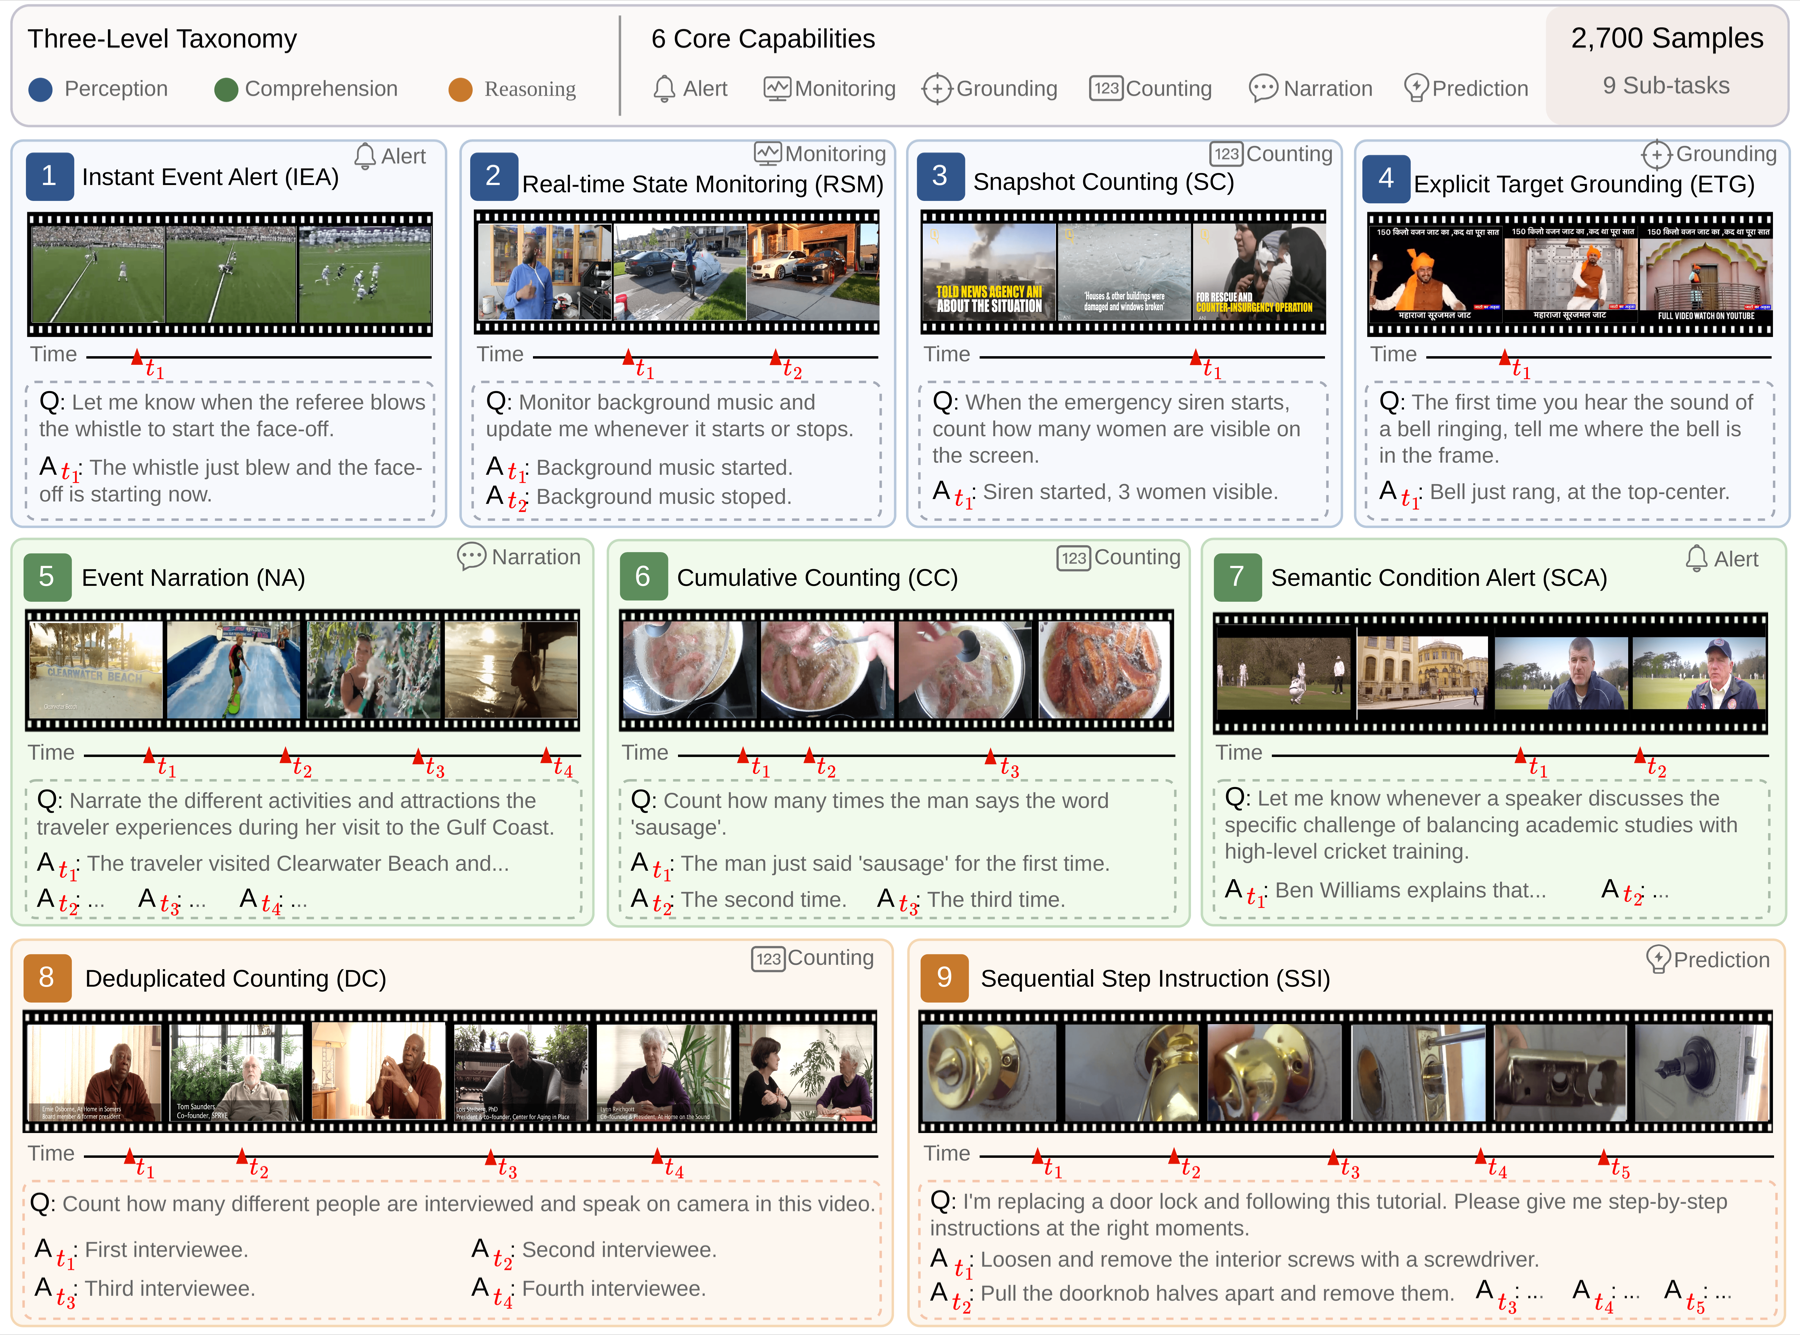
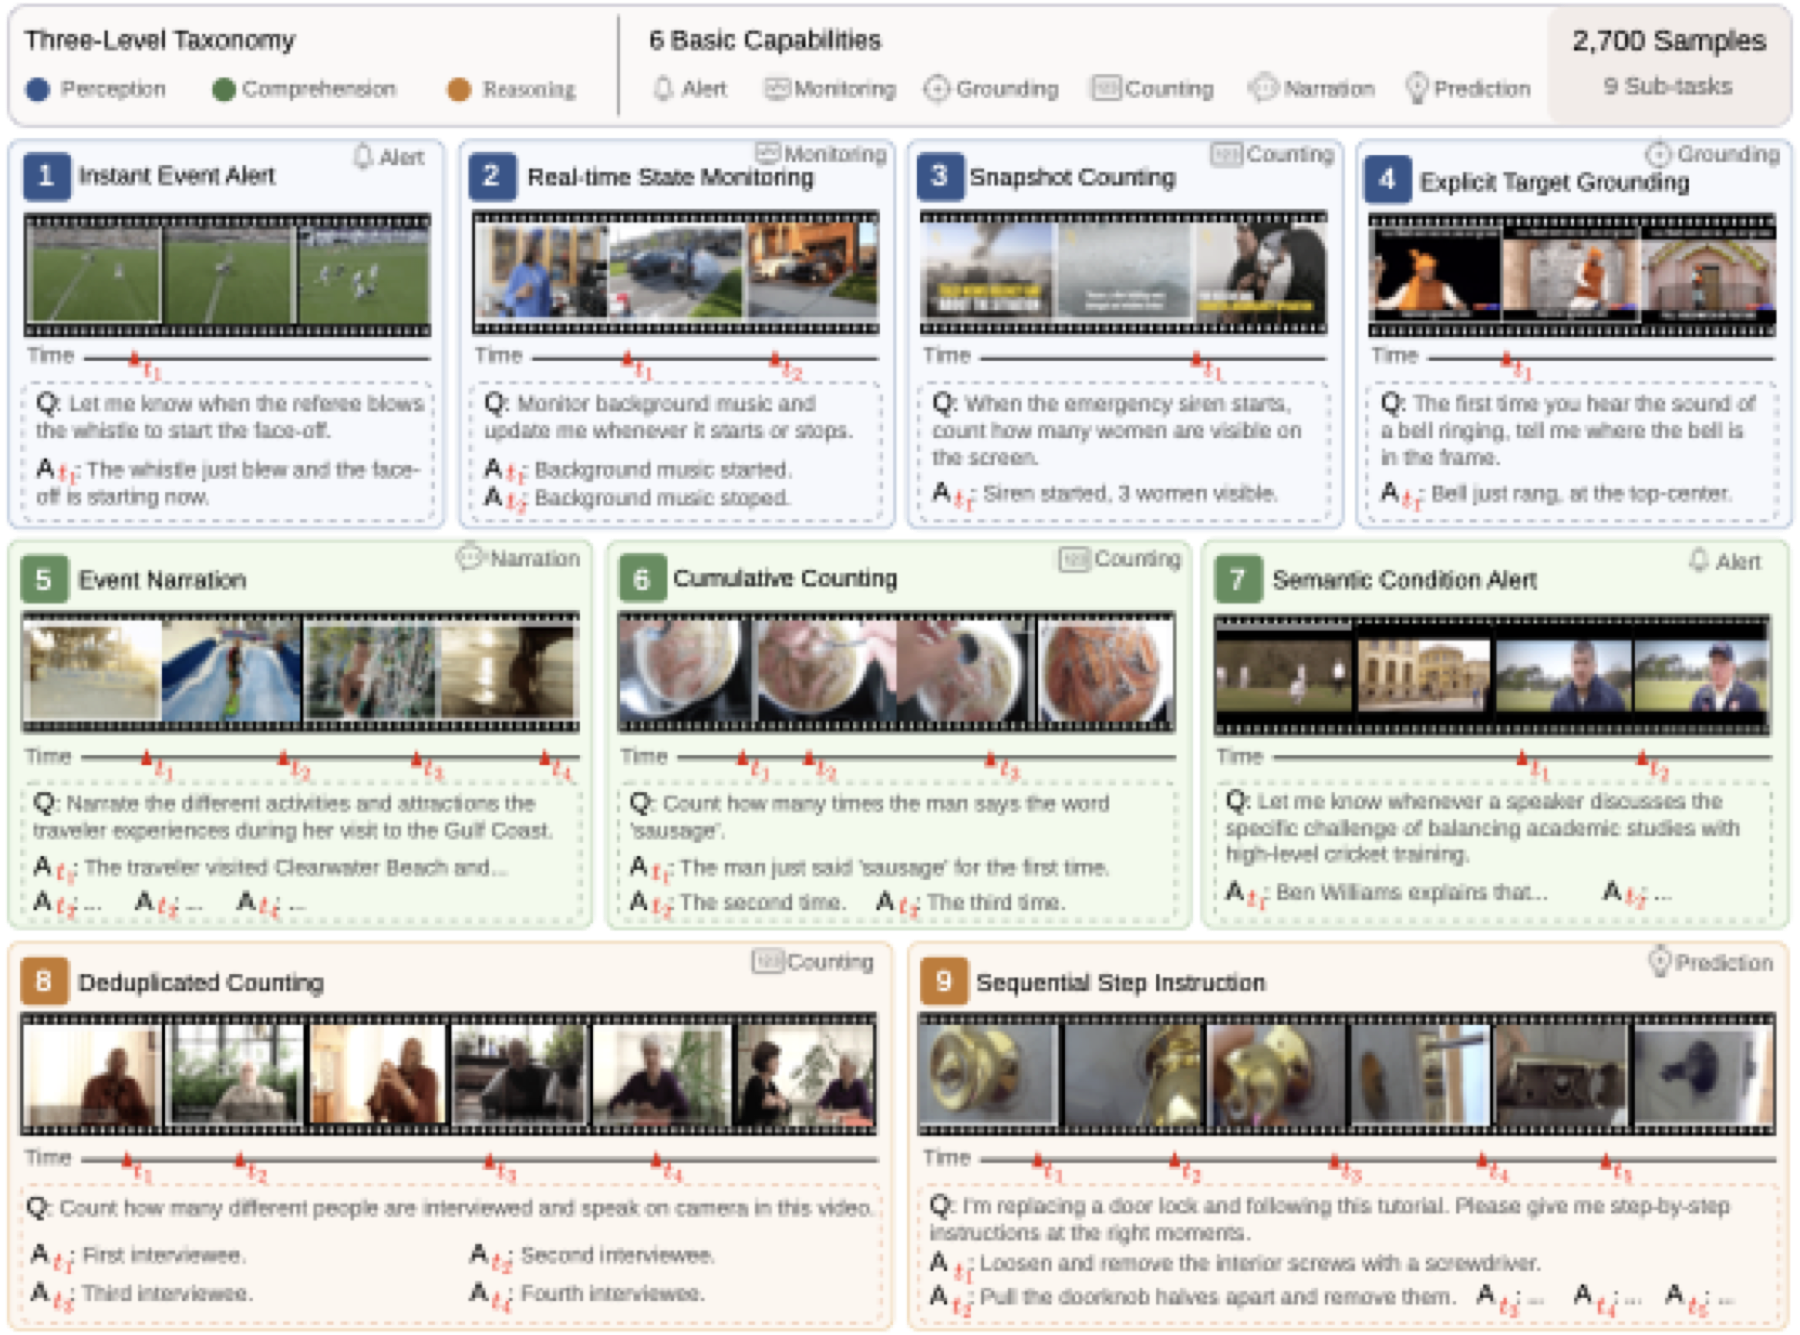
Update project page: rename to OmniPro, sync with paper
- Rename OmniProact-Bench → OmniPro throughout
- Update abstract to match current paper
- Update links: Code, Dataset, Subset
- Update carousel video URLs to new HF repo
- Update sub-task tags to new abbreviations
- Replace benchmark.png with latest version
- Rename "Autonomous Timing" → "Proactive Responding" in Key Features
- Update BibTeX entry

Changed region(s): [[0.0, 0.0, 1.0, 1.0]]

diff --git a/index.html b/index.html
@@ -2,9 +2,9 @@
 <html>
 <head>
   <meta charset="utf-8">
-  <meta name="description" content="OmniProact-Bench: A Comprehensive Benchmark for Omni Proactive Streaming Video Understanding">
+  <meta name="description" content="OmniPro: A Comprehensive Benchmark for Omni-Proactive Streaming Video Understanding">
   <meta name="viewport" content="width=device-width, initial-scale=1">
-  <title>OmniProact-Bench</title>
+  <title>OmniPro</title>
 
   <link href="https://fonts.googleapis.com/css?family=Google+Sans|Noto+Sans|Castoro" rel="stylesheet">
   <link rel="stylesheet" href="./static/css/bulma.min.css">
@@ -20,7 +20,7 @@
     <div class="container is-max-desktop">
       <div class="columns is-centered">
         <div class="column has-text-centered">
-          <h1 class="title is-1 publication-title">OmniProact-Bench</h1>
+          <h1 class="title is-1 publication-title">OmniPro</h1>
           <h2 class="subtitle is-4" style="margin-top:-0.5rem;">A Comprehensive Benchmark for Omni-Proactive Streaming Video Understanding</h2>
 
           <div class="is-size-5 publication-authors">
@@ -39,19 +39,19 @@
               </span>
               -->
               <span class="link-block">
-                <a href="https://anonymous.4open.science/r/OmniProact-Bench-1D5E" class="external-link button is-normal is-rounded is-dark">
+                <a href="https://anonymous.4open.science/r/OmniPro-5031" class="external-link button is-normal is-rounded is-dark">
                   <span class="icon"><i class="fa-brands fa-github"></i></span>
                   <span>Code</span>
                 </a>
               </span>
               <span class="link-block">
-                <a href="https://huggingface.co/datasets/omniproact-bench/omniproact-bench" class="external-link button is-normal is-rounded is-dark">
+                <a href="https://huggingface.co/datasets/omniproact-bench/OmniPro" class="external-link button is-normal is-rounded is-dark">
                   <span class="icon">🤗</span>
                   <span>Dataset</span>
                 </a>
               </span>
               <span class="link-block">
-                <a href="https://huggingface.co/datasets/omniproact-bench/omniproact-bench_subset" class="external-link button is-normal is-rounded is-dark">
+                <a href="https://huggingface.co/datasets/omniproact-bench/OmniPro_subset" class="external-link button is-normal is-rounded is-dark">
                   <span class="icon">🤗</span>
                   <span>Dataset Subset</span>
                 </a>
@@ -68,9 +68,9 @@
 <section class="hero teaser">
   <div class="container is-max-desktop">
     <div class="hero-body" style="padding-top:0;">
-      <img src="./static/images/benchmark.png" alt="OmniProact-Bench Overview" width="100%" style="border-radius:8px; box-shadow:0 4px 16px rgba(0,0,0,0.1);">
+      <img src="./static/images/benchmark.png" alt="OmniPro Overview" width="100%" style="border-radius:8px; box-shadow:0 4px 16px rgba(0,0,0,0.1);">
       <p class="has-text-centered" style="margin-top:0.8rem; font-size:0.95rem; color:#666;">
-        <b>Figure 1.</b> OmniProact-Bench: 9 sub-tasks × 3 cognitive levels × 6 capabilities, with 84% audio dependency.
+        <b>Figure 1.</b> OmniPro: 9 sub-tasks × 3 cognitive levels × 6 capabilities, with 84% audio dependency.
       </p>
     </div>
   </div>
@@ -83,9 +83,10 @@
       <div class="column is-four-fifths">
         <h2 class="title is-3 has-text-centered">Abstract</h2>
         <div class="content has-text-justified">
-          <p><b>Omni-proactive streaming video understanding</b> requires a model to autonomously decide when to speak and actively produce responses based on visual or auditory signals while processing a continuous video stream, rather than relying solely on visual triggers. Despite the rapid proliferation of streaming models, how to systematically evaluate them remains an open question: existing proactive benchmarks depend almost exclusively on visual triggers; they adopt polling or fixed-timestamp paradigms that leave genuine autonomous timing untested; and their task diversity is narrow.</p>
-          <p>We present <b>OmniProact-Bench</b>, the first comprehensive benchmark for this task. It comprises <b>2,700 human-reviewed samples</b> spanning 9 sub-tasks and 3 cognitive levels (6 capabilities), with <b>84% audio dependency</b>. We propose a dual-mode protocol: <em>GT Probe</em> (pre/post paired probing) and <em>Online</em> (frame-by-frame autonomous decision-making with multi-trigger support and over-trigger penalties).</p>
-          <p>Evaluation of 11 mainstream models reveals that omni models differ markedly in audio utilization; performance degrades substantially over time; and non-speech sound perception remains a shared bottleneck.</p>
+          <p><b>Omni-proactive streaming video understanding</b>, i.e., autonomously deciding when to speak and what to say from continuous audio-visual streams, is an emerging capability of omni-modal large language models. Existing benchmarks fall short in three key aspects: they rely primarily on visual signals, adopt polling or fixed-timestamp protocols instead of true proactive evaluation, and cover only a limited range of tasks, preventing reliable assessment and differentiation of omni-proactive streaming models.</p>
+          <p>We present <b>OmniPro</b>, the first benchmark to jointly evaluate omni-modal perception, proactive responding, and diverse video understanding tasks. It comprises <b>2,700 human-verified samples</b> spanning 9 sub-tasks and 3 cognitive levels, covering 6 basic video understanding capabilities. Notably, <b>84% of samples require audio signals</b> (speech or non-speech), and each sample is annotated with modality-isolation labels to enable fine-grained multimodal analysis.</p>
+          <p>We further introduce a dual-mode evaluation protocol: <em>Probe</em> mode assesses content understanding by querying the model before and after each ground-truth trigger, while <em>Online</em> mode evaluates full proactive ability by requiring models to autonomously decide when to respond in streaming input.</p>
+          <p>Evaluating 11 representative models reveals three key findings: (1) audio provides consistent gains but with highly variable utilization across models, (2) performance degrades significantly over time, indicating limited long-horizon robustness, and (3) non-speech audio perception remains the weakest dimension.</p>
         </div>
       </div>
     </div>
@@ -107,7 +108,7 @@
       <div class="column is-4">
         <div class="box has-text-centered" style="height:100%;">
           <span class="icon is-large" style="color:#E86330;"><i class="fas fa-clock fa-2x"></i></span>
-          <h3 class="title is-5" style="margin-top:0.75rem;">Autonomous Timing</h3>
+          <h3 class="title is-5" style="margin-top:0.75rem;">Proactive Responding</h3>
           <p>Models decide <em>when</em> to speak with multi-trigger support and over-trigger penalties.</p>
         </div>
       </div>
@@ -139,11 +140,11 @@
         <div class="columns is-vcentered">
           <div class="column is-5">
             <video controls width="100%" style="border-radius:8px; box-shadow:0 2px 8px rgba(0,0,0,0.15);">
-              <source src="https://huggingface.co/datasets/omniproact-bench/omniproact-bench/resolve/main/raw_videos/VkVB9hsAf3g.mp4" type="video/mp4">
+              <source src="https://huggingface.co/datasets/omniproact-bench/OmniPro/resolve/main/raw_videos/VkVB9hsAf3g.mp4" type="video/mp4">
             </video>
           </div>
           <div class="column is-7">
-            <span class="tag is-info">IEA – Instant Event Alert</span> <span class="tag is-danger">🎧 Audio Required</span>
+            <span class="tag is-info">Event-Alert</span> <span class="tag is-danger">🎧 Audio Required</span>
             <p style="margin-top:0.8rem;"><b>Q:</b> <em>Let me know if you hear the sound of pots and pans clinking in the kitchen.</em></p>
             <div style="margin-top:0.5rem; padding:0.8rem; background:#f9f9f9; border-radius:6px; border-left:3px solid #2B7BE8;">
               <p><span class="tag is-dark" style="margin-right:4px;">00:13</span> <span class="tag is-warning">sound</span><br>"She's rummaging through the cabinets now — I hear the pots clinking."</p>
@@ -156,11 +157,11 @@
         <div class="columns is-vcentered">
           <div class="column is-5">
             <video controls width="100%" style="border-radius:8px; box-shadow:0 2px 8px rgba(0,0,0,0.15);">
-              <source src="https://huggingface.co/datasets/omniproact-bench/omniproact-bench/resolve/main/raw_videos/ntbmuiuta_8.mp4" type="video/mp4">
+              <source src="https://huggingface.co/datasets/omniproact-bench/OmniPro/resolve/main/raw_videos/ntbmuiuta_8.mp4" type="video/mp4">
             </video>
           </div>
           <div class="column is-7">
-            <span class="tag is-info">RSM – Realtime State Monitor</span> <span class="tag is-danger">🎧 Audio Required</span>
+            <span class="tag is-info">State-Monitor</span> <span class="tag is-danger">🎧 Audio Required</span>
             <p style="margin-top:0.8rem;"><b>Q:</b> <em>Monitor the audio and let me know whenever the narrator starts or stops speaking.</em></p>
             <div style="margin-top:0.5rem; padding:0.8rem; background:#f9f9f9; border-radius:6px; border-left:3px solid #2B7BE8;">
               <p><span class="tag is-dark" style="margin-right:4px;">00:10</span> <span class="tag is-link is-light">speech</span><br>"The narrator started speaking — changed from music only to speech."</p>
@@ -175,11 +176,11 @@
         <div class="columns is-vcentered">
           <div class="column is-5">
             <video controls width="100%" style="border-radius:8px; box-shadow:0 2px 8px rgba(0,0,0,0.15);">
-              <source src="https://huggingface.co/datasets/omniproact-bench/omniproact-bench/resolve/main/raw_videos/7GkZ7PLMaZk.mp4" type="video/mp4">
+              <source src="https://huggingface.co/datasets/omniproact-bench/OmniPro/resolve/main/raw_videos/7GkZ7PLMaZk.mp4" type="video/mp4">
             </video>
           </div>
           <div class="column is-7">
-            <span class="tag is-info">SC – Snapshot Counting</span> <span class="tag is-danger">🎧 Audio Required</span>
+            <span class="tag is-info">Snap.-Count</span> <span class="tag is-danger">🎧 Audio Required</span>
             <p style="margin-top:0.8rem;"><b>Q:</b> <em>When the speaker says he will pronounce the word slower, count how many letters are in the word on the screen.</em></p>
             <div style="margin-top:0.5rem; padding:0.8rem; background:#f9f9f9; border-radius:6px; border-left:3px solid #2B7BE8;">
               <p><span class="tag is-dark" style="margin-right:4px;">00:34</span> <span class="tag is-primary is-light">visual+speech</span><br>"He's speaking slower now — I count 8 letters in the word."</p>
@@ -192,11 +193,11 @@
         <div class="columns is-vcentered">
           <div class="column is-5">
             <video controls width="100%" style="border-radius:8px; box-shadow:0 2px 8px rgba(0,0,0,0.15);">
-              <source src="https://huggingface.co/datasets/omniproact-bench/omniproact-bench/resolve/main/raw_videos/L1q4J7oNswA.mp4" type="video/mp4">
+              <source src="https://huggingface.co/datasets/omniproact-bench/OmniPro/resolve/main/raw_videos/L1q4J7oNswA.mp4" type="video/mp4">
             </video>
           </div>
           <div class="column is-7">
-            <span class="tag is-info">ETG – Explicit Target Grounding</span> <span class="tag is-danger">🎧 Audio Required</span>
+            <span class="tag is-info">Target-Ground</span> <span class="tag is-danger">🎧 Audio Required</span>
             <p style="margin-top:0.8rem;"><b>Q:</b> <em>The first time you hear the sound of a bell ringing, tell me where the bell is in the frame.</em></p>
             <div style="margin-top:0.5rem; padding:0.8rem; background:#f9f9f9; border-radius:6px; border-left:3px solid #2B7BE8;">
               <p><span class="tag is-dark" style="margin-right:4px;">00:10</span> <span class="tag is-warning">visual+sound</span><br>"The bell just rang—it is located in the top-center of the frame."</p>
@@ -209,11 +210,11 @@
         <div class="columns is-vcentered">
           <div class="column is-5">
             <video controls width="100%" style="border-radius:8px; box-shadow:0 2px 8px rgba(0,0,0,0.15);">
-              <source src="https://huggingface.co/datasets/omniproact-bench/omniproact-bench/resolve/main/raw_videos/U_yDpCSi0bQ.mp4" type="video/mp4">
+              <source src="https://huggingface.co/datasets/omniproact-bench/OmniPro/resolve/main/raw_videos/U_yDpCSi0bQ.mp4" type="video/mp4">
             </video>
           </div>
           <div class="column is-7">
-            <span class="tag is-info">SCA – Semantic Condition Alert</span> <span class="tag is-danger">🎧 Audio Required</span>
+            <span class="tag is-info">Cond.-Alert</span> <span class="tag is-danger">🎧 Audio Required</span>
             <p style="margin-top:0.8rem;"><b>Q:</b> <em>Alert me whenever one of the children makes a dismissive or negative comment about an idea or suggestion shared by someone else.</em></p>
             <div style="margin-top:0.5rem; padding:0.8rem; background:#f9f9f9; border-radius:6px; border-left:3px solid #2B7BE8;">
               <p><span class="tag is-dark" style="margin-right:4px;">00:08</span> <span class="tag is-link is-light">speech</span><br>"A boy just dismissed a friend's suggestion about an NBA scout by calling it 'dumb'."</p>
@@ -228,11 +229,11 @@
         <div class="columns is-vcentered">
           <div class="column is-5">
             <video controls width="100%" style="border-radius:8px; box-shadow:0 2px 8px rgba(0,0,0,0.15);">
-              <source src="https://huggingface.co/datasets/omniproact-bench/omniproact-bench/resolve/main/raw_videos/osvkHQdxULg.mp4" type="video/mp4">
+              <source src="https://huggingface.co/datasets/omniproact-bench/OmniPro/resolve/main/raw_videos/osvkHQdxULg.mp4" type="video/mp4">
             </video>
           </div>
           <div class="column is-7">
-            <span class="tag is-info">CC – Cumulative Counting</span> <span class="tag is-danger">🎧 Audio Required</span>
+            <span class="tag is-info">Cum.-Count</span> <span class="tag is-danger">🎧 Audio Required</span>
             <p style="margin-top:0.8rem;"><b>Q:</b> <em>Count how many times the word 'Devoxx' is spoken throughout the video.</em></p>
             <div style="margin-top:0.5rem; padding:0.8rem; background:#f9f9f9; border-radius:6px; border-left:3px solid #2B7BE8;">
               <p><span class="tag is-dark" style="margin-right:4px;">00:21</span> <span class="tag is-link is-light">speech</span><br>"Yakov Fain just mentioned Devoxx for the first time while describing the conference tracks."</p>
@@ -248,11 +249,11 @@
         <div class="columns is-vcentered">
           <div class="column is-5">
             <video controls width="100%" style="border-radius:8px; box-shadow:0 2px 8px rgba(0,0,0,0.15);">
-              <source src="https://huggingface.co/datasets/omniproact-bench/omniproact-bench/resolve/main/raw_videos/DxxMPyeBLvc.mp4" type="video/mp4">
+              <source src="https://huggingface.co/datasets/omniproact-bench/OmniPro/resolve/main/raw_videos/DxxMPyeBLvc.mp4" type="video/mp4">
             </video>
           </div>
           <div class="column is-7">
-            <span class="tag is-info">EN – Event Narration</span> <span class="tag is-warning">🔊 Audio Helpful</span>
+            <span class="tag is-info">Event-Narr.</span> <span class="tag is-warning">🔊 Audio Helpful</span>
             <p style="margin-top:0.8rem;"><b>Q:</b> <em>Narrate the progression of Kenneth's prank, from his transformation to his performance at the outdoor gym.</em></p>
             <div style="margin-top:0.5rem; padding:0.8rem; background:#f9f9f9; border-radius:6px; border-left:3px solid #2B7BE8;">
               <p><span class="tag is-dark" style="margin-right:4px;">00:45</span> <span class="tag is-primary is-light">visual+speech</span><br>"Kenneth, an athlete, is undergoing a transformation into an elderly man. Makeup artists are applying latex prosthetics and airbrushing wrinkles while he describes the tight sensation of the bald cap."</p>
@@ -269,11 +270,11 @@
         <div class="columns is-vcentered">
           <div class="column is-5">
             <video controls width="100%" style="border-radius:8px; box-shadow:0 2px 8px rgba(0,0,0,0.15);">
-              <source src="https://huggingface.co/datasets/omniproact-bench/omniproact-bench/resolve/main/raw_videos/XhgUbBVXLEg.mp4" type="video/mp4">
+              <source src="https://huggingface.co/datasets/omniproact-bench/OmniPro/resolve/main/raw_videos/XhgUbBVXLEg.mp4" type="video/mp4">
             </video>
           </div>
           <div class="column is-7">
-            <span class="tag is-info">DC – Dedup Counting</span> <span class="tag is-warning">🔊 Audio Helpful</span>
+            <span class="tag is-info">Dedup.-Count</span> <span class="tag is-warning">🔊 Audio Helpful</span>
             <p style="margin-top:0.8rem;"><b>Q:</b> <em>Count how many different people are interviewed and speak on camera in this video.</em></p>
             <div style="margin-top:0.5rem; padding:0.8rem; background:#f9f9f9; border-radius:6px; border-left:3px solid #2B7BE8;">
               <p><span class="tag is-dark" style="margin-right:4px;">00:18</span> <span class="tag is-primary is-light">visual+speech</span><br>"First interviewee — Marwan Farah, a resident engineer, begins speaking about the project's goals."</p>
@@ -288,11 +289,11 @@
         <div class="columns is-vcentered">
           <div class="column is-5">
             <video controls width="100%" style="border-radius:8px; box-shadow:0 2px 8px rgba(0,0,0,0.15);">
-              <source src="https://huggingface.co/datasets/omniproact-bench/omniproact-bench/resolve/main/raw_videos/nh1GBPeyyMo.mp4" type="video/mp4">
+              <source src="https://huggingface.co/datasets/omniproact-bench/OmniPro/resolve/main/raw_videos/nh1GBPeyyMo.mp4" type="video/mp4">
             </video>
           </div>
           <div class="column is-7">
-            <span class="tag is-info">SSI – Sequential Step Instruction</span> <span class="tag is-warning">🔊 Audio Helpful</span>
+            <span class="tag is-info">Step-Inst.</span> <span class="tag is-warning">🔊 Audio Helpful</span>
             <p style="margin-top:0.8rem;"><b>Q:</b> <em>I'm following along to wrap a gift like this. Please guide me through each step as it happens.</em></p>
             <div style="margin-top:0.5rem; padding:0.8rem; background:#f9f9f9; border-radius:6px; border-left:3px solid #2B7BE8;">
               <p><span class="tag is-dark" style="margin-right:4px;">00:08</span> <span class="tag is-success is-light">visual</span><br>"Place the box on your cut paper. Wrap the paper tightly around the box and secure the seam with a piece of clear tape."</p>
@@ -387,8 +388,8 @@
 <section class="section" style="background-color:#f8f9fa;" id="BibTeX">
   <div class="container is-max-desktop content">
     <h2 class="title is-3 has-text-centered">BibTeX</h2>
-    <pre style="border-radius:8px; padding:1.2rem; background:#2d2d2d; color:#f8f8f2; font-size:0.85rem;"><code>@inproceedings{omniproactbench2026,
-  title={OmniProact-Bench: A Comprehensive Benchmark for Omni-Proactive Streaming Video Understanding},
+    <pre style="border-radius:8px; padding:1.2rem; background:#2d2d2d; color:#f8f8f2; font-size:0.85rem;"><code>@inproceedings{omnipro2026,
+  title={OmniPro: A Comprehensive Benchmark for Omni-Proactive Streaming Video Understanding},
   author={Anonymous},
   year={2026}
 }</code></pre>

diff --git a/static/css/index.css b/static/css/index.css
@@ -1,4 +1,4 @@
-/* index.css - OmniProact-Bench Project Page */
+/* index.css - OmniPro Project Page */
 
 .publication-title {
   font-family: 'Google Sans', sans-serif;